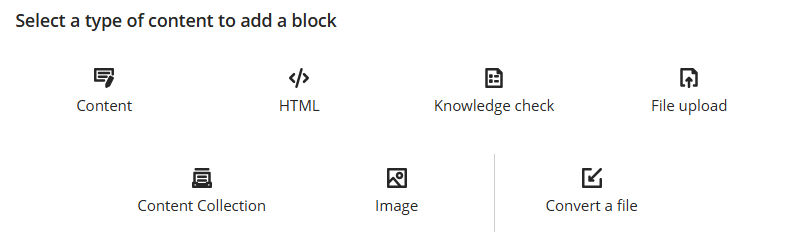
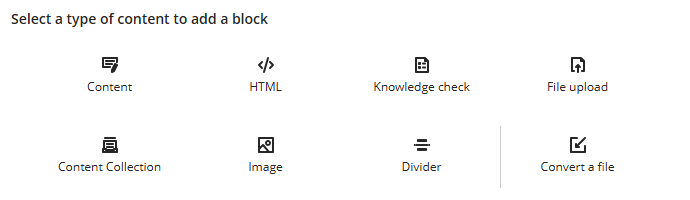
Update .118: Document - knowledge check

diff --git a/docs/ultra/documents.md b/docs/ultra/documents.md
@@ -39,17 +39,7 @@ In edit mode, click the **Accessibility score icon** to open the accessibility f
 
 ## Content blocks
 
-<!-- The available block types are:
-
-- [Content (text editor)](#block-content-text-editor)
-- [HTML (embedded content)](#block-html)
-- [Knowledge check](#block-knowledge-check)
-- [File upload](#block-file-upload)
-- [Content Collection](#block-content-collection)
-- [Image](#block-image)
-- [Convert a file](#block-convert-a-file) -->
-
-![Blocks available: Content, HTML, Knowledge check, File upload, Content Collection, Image, Convert a file](images/documents-content-blocks.png)
+![Blocks available: Content, HTML, Knowledge check, File upload, Content Collection, Image, Divider, Convert a file](images/documents-content-blocks.png)
 
 Documents are built from drag-and-drop content blocks. Add blocks using these methods:
 
@@ -326,6 +316,11 @@ Images should be high quality and must comply with copyright regulations. The [U
 
         **Search results:** 9 images shown on first page (of 10,000 results). None are particularly relevant to the combined search terms: one shows a compass held up in front of pine trees, five show mountain scenes but no people, and three show other types of runners.
 
+### Block: Divider
+
+![A narrow grey bar separating introduction and lecture content](images/documents-block-divider.png)
+
+Use this block to add a grey divider between content items. This is resizable in the same way as other items. To add, just click where you want the divider to appear and select **Divider**.
 
 ### Block: Convert a File
 
@@ -337,12 +332,12 @@ Images should be high quality and must comply with copyright regulations. The [U
 
 Use this block to convert a PDF, Word or PowerPoint file on your device to include the content directly within a Document. Conversion quality will depend on the type of content in the file. Simple text-based files will be easiest to convert, but more complex formatting and layout may be lost. 
 
-To convert a file:
+??? Info "Convert a file"
 
-1. Use the *hover to add* method and select the **Convert a File** block.
-2. Select the relevant file from your device.
-3. Wait while the file content is converted. Depending on the size of the file, this could take a few minutes.
-4. Carefully check and adapt the content and formatting as necessary.
+    1. Use the *hover to add* method and select the **Convert a File** block.
+    2. Select the relevant file from your device.
+    3. Wait while the file content is converted. Depending on the size of the file, this could take a few minutes.
+    4. Carefully check and adapt the content and formatting as necessary.
 
 ## Layout
 

diff --git a/docs/ultra/discussions.md b/docs/ultra/discussions.md
@@ -38,7 +38,7 @@ Discussions can be used in many ways, such as:
 3. Enter a descriptive **discussion title** at the top. 
 4. Enter instructions or an initial post in the text editor box and click **Save**, or click **Auto-generate discussion** to [use AI to generate a discussion prompt](#generate-discussion-prompts-with-ai). Text entered here is also shown as the item description on the course content page.
 </br>![Example initial post: What are the most important factors to consider when organising a fell race? Include at least two factors and respond to at least two of your peers.](images/discussion-initial-post.png)
-5. To [follow/subscribe to the discussion](#follow-a-discussion), click the **Follow** bell icon next to the discussion topic (save the prompt first).
+5. To [follow/subscribe to the discussion](#follow-a-discussion), click the **Follow** bell icon next to the discussion topic.
 6. Click the **cog icon** to open Settings, including:
     - student posting & editing settings (including [allow anonymous posts](#anonymous-posting))
     - [assign the discussion to groups](#assign-to-groups)
